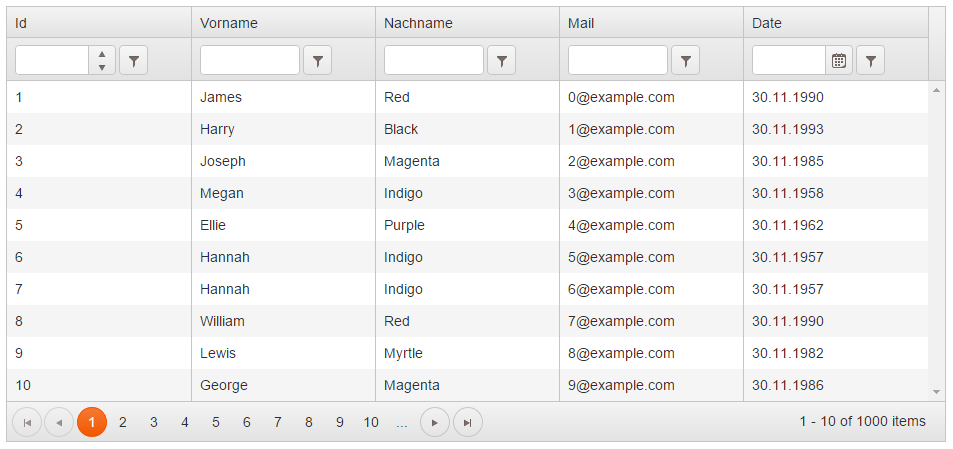
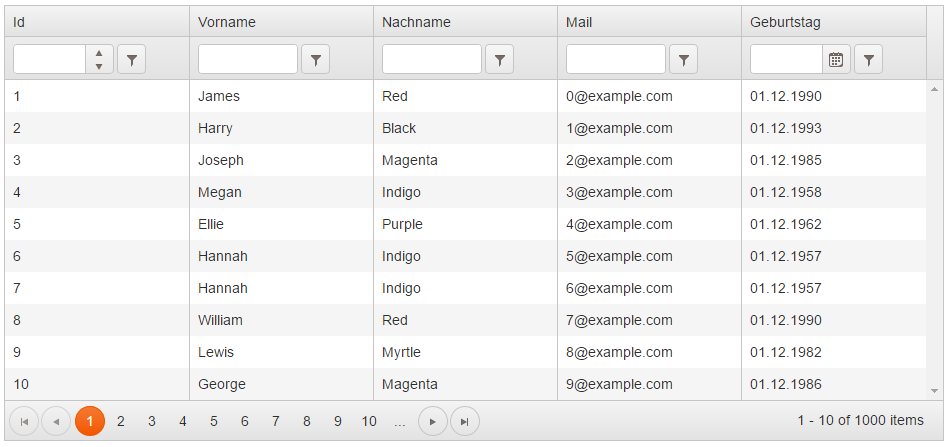
text

diff --git a/2015 - dotnetpro - Optimale Web-Umgebung mit AngularJS und ASP.NET/Artikel2/index.md b/2015 - dotnetpro - Optimale Web-Umgebung mit AngularJS und ASP.NET/Artikel2/index.md
@@ -167,7 +167,7 @@ public static class WebApiConfig
 }
 ~~~~~
 
-Der Controller unterstützt nun eine seitenweise Ausgabe, Sortierung und Filterung. Diese Fähigkeiten direkt mit AngularJS umzusetzen wäre ein großer Aufwand. Es bietet sich an, ein fertiges Tabellen-Control ("Grid") zu verwenden. Hierfür gibt es eine Reihe von freien und proprietären Komponenten, die mit AngularJS kompatibel sind. Listing 2c und Linsting 2d zeigen die Verwendung des Kendo UI Grid von Telerik [7].
+Der Controller unterstützt nun eine seitenweise Ausgabe, Sortierung und Filterung. Diese Fähigkeiten direkt mit AngularJS umzusetzen wäre ein großer Aufwand. Es bietet sich an, ein fertiges Tabellen-Control ("Grid") zu verwenden. Hierfür gibt es eine Reihe von freien und proprietären Komponenten, die mit AngularJS kompatibel sind. Listing 2c und Linsting 2d zeigen die Verwendung des Kendo UI Grids von Telerik [7].
 
 ##### Listing 2c -- AngularJS Controller konfiguriert die Datenquelle für OData
 ~~~~~
@@ -224,15 +224,15 @@ define(['angular', 'kendo'], function(angular) {
          { field: 'DateOfBirth', title: 'Geburtstag', format: '{0:dd.MM.yyyy}' }]"></div>
 ~~~~~  
 
-![Abbildung 3](Images/image02_bootstrap_tabelle.png)
-##### [Abb. 3] Die Tabelle aus Listing 1d im Bootstrap-Design
+![Abbildung 3](Images/image03_kendo_ui_grid.png)
+##### [Abb. 3] Das Kendo UI Grid
 
-Im Kern ist Kendo UI ein Framework, welches aus diversen jQuery-Plugins besteht. Normalerweise ist die Integration von jQuery-Plugins mit etwas Aufwand verbunden. Doch der Hersteller liefert über das AngularJS Modul `kendo.directives` gleich passende Direktiven für AngularJS mit. Bei der Konfiguration der Datenquelle fällt jedoch auf, dass das Modell zur Beschreibung des Kunden erneut deklariert werden muss. Eine Verwendung der OData-Metadaten wurde vom Hersteller nicht implementiert, was etwas schade ist.
+Im Kern ist Kendo UI ein Framework, welches aus diversen jQuery-Plugins besteht. Normalerweise ist die Integration von jQuery-Plugins in AngularJS mit etwas Aufwand verbunden. Doch der Hersteller liefert über das AngularJS Modul `kendo.directives` gleich passende Direktiven für AngularJS mit. Die Datenquelle (hier "customerDataSource" genannt), beschreibt das Geschäftsdodell und die Fähigkeiten des OData Services im Detail.  
 
 
 #### Metadaten in OData 
 
-In einer Single Page Anwendung existiert viel Geschäftslogik direkt auf Client-Seite. Betrachtet man das Listing 1c erneut, so fallen einige unschöne Tatsachen auf. Zunächst muss man genau wissen, unter welcher Adresse Entitäten vom Typ Kunden zu finden sind. Das klingt trivial, aber je nach Geschmack wird kann dies z.B. "/api/Customer" oder "/api/Customers" sein. Die Antwort des Web API Controllers ist zudem ein pures JSON-Dokument (siehe Listing 3)  
+In einer Single Page Anwendung existiert viel Geschäftslogik direkt auf Client-Seite. Betrachtet man das Listing 1c erneut, so fallen einige unschöne Tatsachen auf. Zunächst muss man genau wissen, unter welcher Adresse Entitäten vom Typ Kunden zu finden sind. Das klingt trivial, aber je nach Geschmack kann dies z.B. "/api/Customer" oder "/api/Customer**s**" sein. Die Antwort des Web API Controllers ist zudem ein pures JSON-Dokument (siehe Listing 3)  
 
 ##### Listing 3 -- Antwort des Web API Controllers
 ~~~~~
@@ -249,14 +249,12 @@ In einer Single Page Anwendung existiert viel Geschäftslogik direkt auf Client-
 ]
 ~~~~~
 
-Das Geburtsdatum bleibt auch nach der Umwandlung in ein JavaScript-Objekt ein simpler String, da JSON keinen Wert für Daten kennt. Ebenso existiert ein Property namens "Invoices". Ob sich darin wirklich Entitäten vom Typ "Rechnung" befinden und wie diese exakt beschaffen sind, ist für Nutzer der API reine Spekulation.   
+Das Geburtsdatum bleibt auch nach der Umwandlung in ein JavaScript-Objekt ein simpler String, da JSON keinen Wert für Daten kennt. Ebenso existiert ein Property namens "Invoices". Ob sich darin wirklich Entitäten vom Typ "Rechnung" befinden und wie diese exakt beschaffen sind, ist für Nutzer der API reine Spekulation. Es fehlen offensichtlich Metadaten, welche die API genauer beschreiben.   
 
-Durch Metadaten und die URL Konventionen lässt sich auch die Entwicklung eigener Funktionalitäten entscheidend vereinfachen. 
+Laut Spezifikation sollte ein OData Service sein Modell im "Common Schema Definition Language" (CSDL) Format offen legen. In jenem CSDL-Dokument ist ein "Entity Data Model" (EDM) beschrieben [6]. Das "Entity Data Model" ist ein alter Bekannter, welcher seit jeher die konzeptionelle Grundlage des Entity Framworks bildet. Es liegt nahe, das bereits existierende Code-First-Modell aus dem Entity Framework wieder zu verwenden. Damit würde man aber das gesamte Datenbanklayout veröffentlichen. Ebenso könnte man den Service nicht mehr um zusätzliche Operationen ergänzen. Es ergibt sich daher die Notwendigkeit, ein zweites, öffentliches Modell zu erstellen. Hierfür verwendet man den ODataConventionModelBuilder, welcher in Listing 2b bereits verwendet wurde.
 
 
-
-Laut Spezifikation sollte ein OData Service sein Modell im "Common Schema Definition Language" (CSDL) Format offen legen. In jenem CSDL-Dokument ist ein "Entity Data Model" (EDM) beschrieben [6]. Das "Entity Data Model" ist ein alter Bekannter, welcher seit jeher die konzeptionelle Grundlage des Entity Framworks bildet. Es liegt nahe, das bereits existierende Code-First-Modell aus dem Entity Framework wieder zu verwenden. Damit würde man aber das gesamte Datenbanklayout veröffentlichen. Ebenso könnte man den Service nicht mehr um zusätzliche Operationen ergänzen. Es ergibt sich daher die Notwendigkeit, ein zweites, öffentliches Modell zu erstellen. Hierfür verwendet man den ODataConventionModelBuilder.
-
+und die URL Konventionen lässt sich auch die Entwicklung eigener Funktionalitäten entscheidend vereinfachen.
 
 
  
